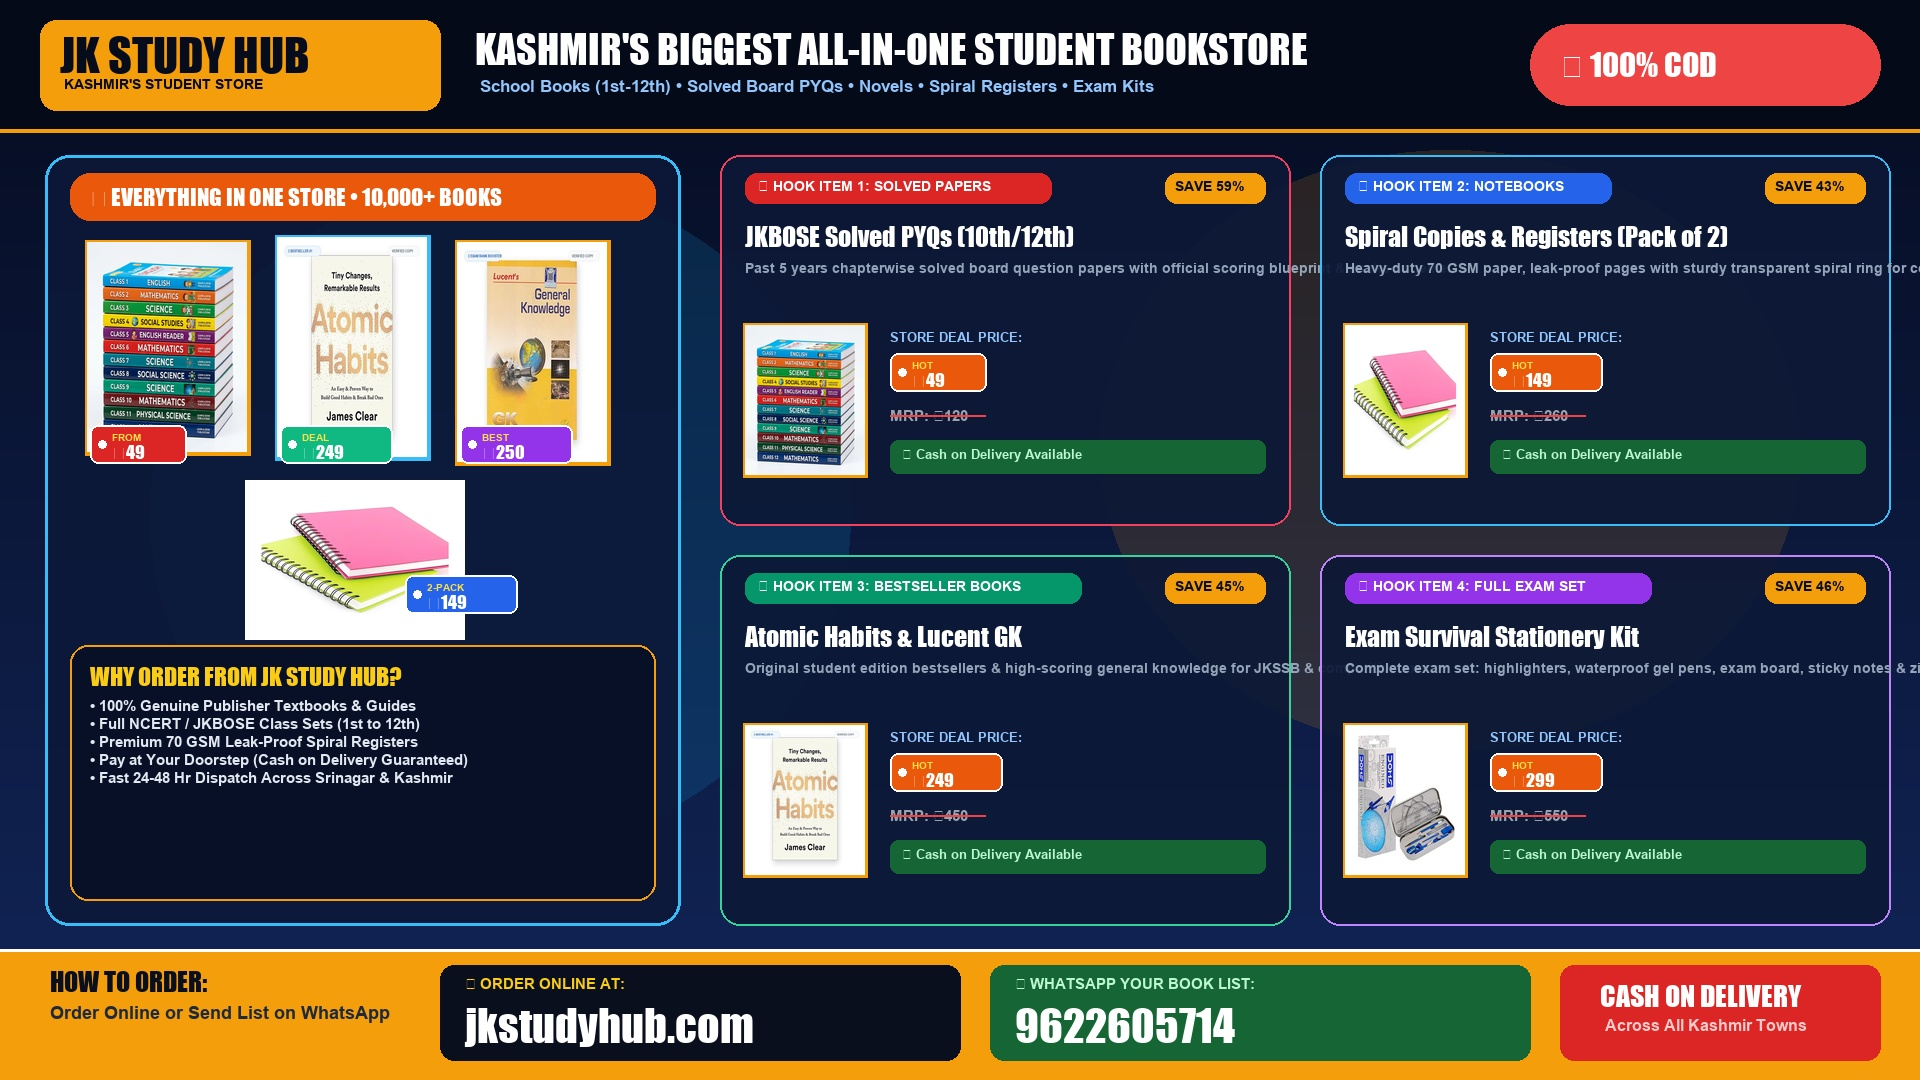
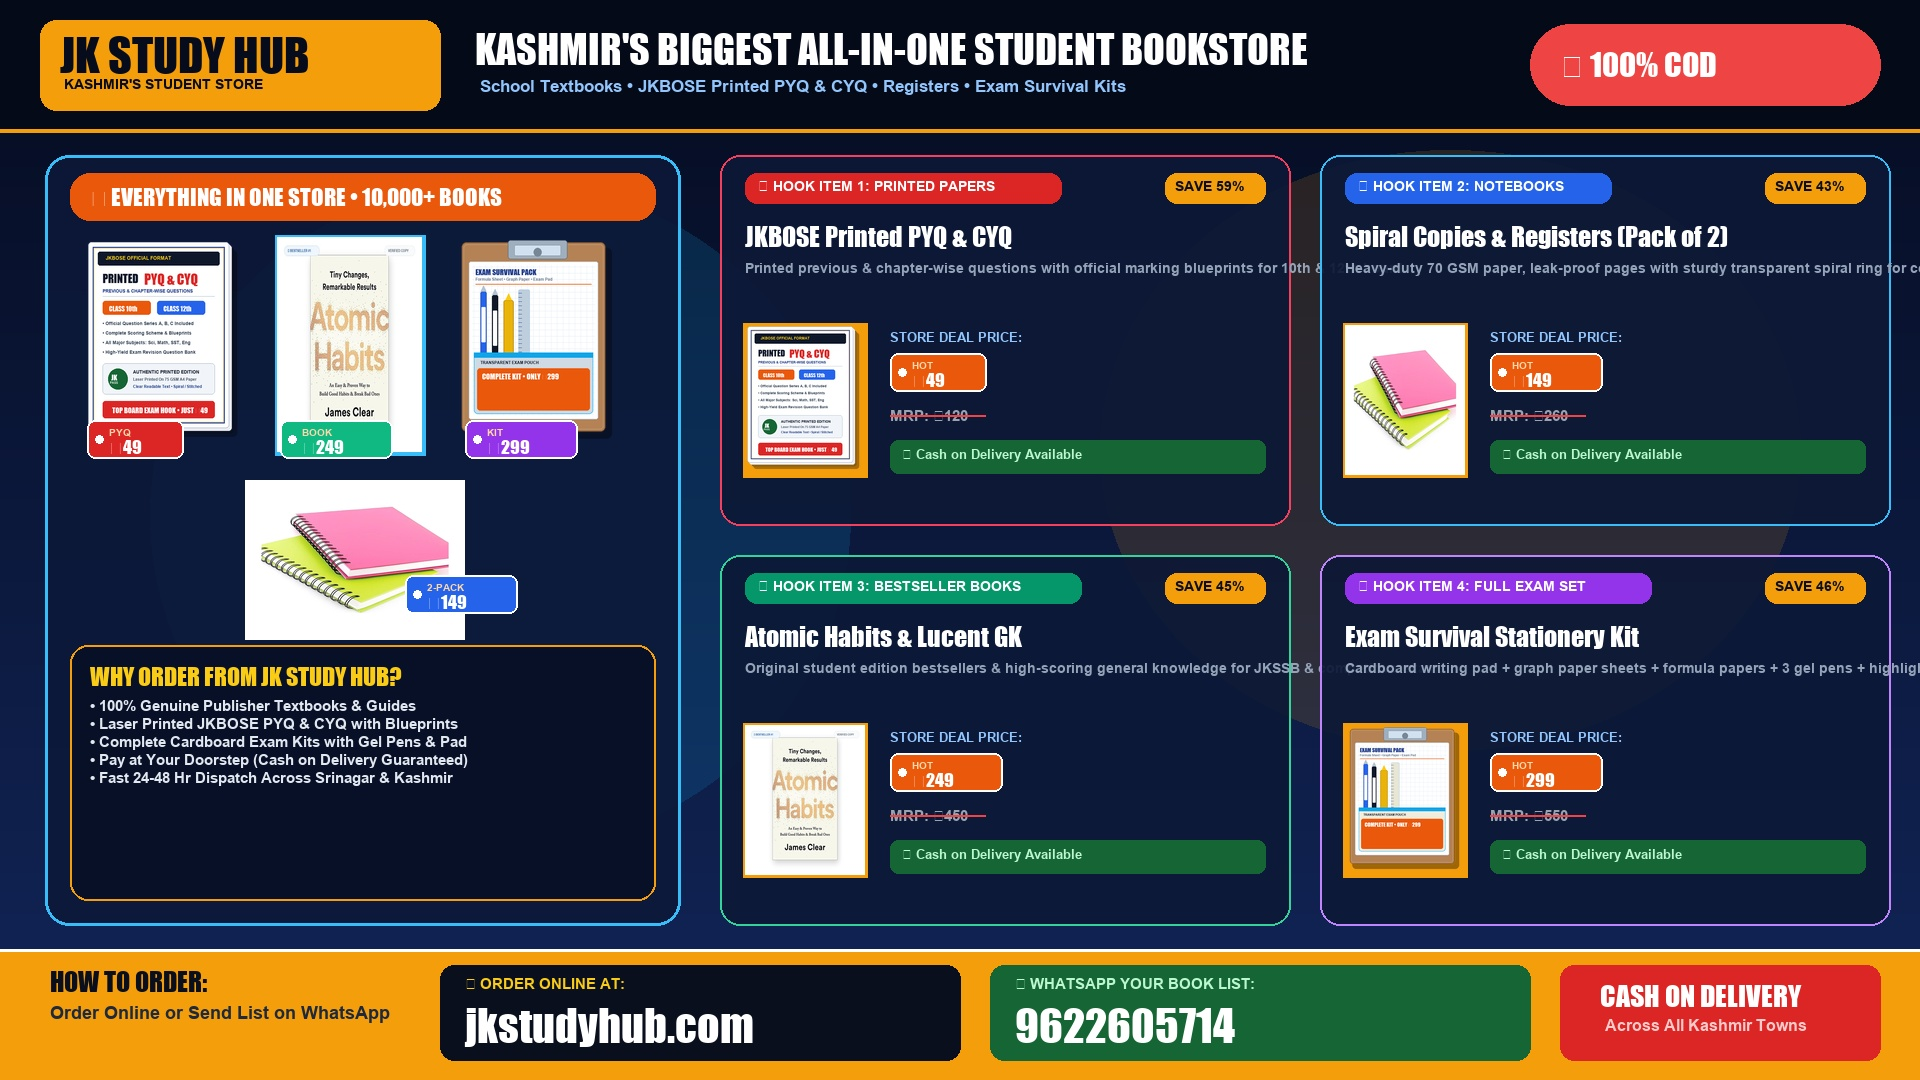
feat(branding): update ads with proper JKBOSE Printed PYQ & CYQ and Exam Survival Kit with cardboard pad & papers

diff --git a/poster.html b/poster.html
@@ -279,10 +279,10 @@
       <div class="spec-box">
         <h4><i class="fa-solid fa-bolt"></i> Actual Store Offers Displayed</h4>
         <p>
+          • <strong>₹49</strong>: JKBOSE Printed PYQ &amp; CYQ (Series A, B, C + Scoring Blueprint).<br>
+          • <strong>₹149</strong>: Premium Spiral Copies &amp; Registers (Set of 2, 70 GSM).<br>
           • <strong>₹249</strong>: Atomic Habits &amp; Lucent GK Bestsellers.<br>
-          • <strong>₹149</strong>: Premium Spiral Copies &amp; Registers (Set of 2).<br>
-          • <strong>₹49</strong>: Printed JKBOSE Solved PYQs &amp; Blueprints.<br>
-          • <strong>₹299</strong>: Exam Survival Complete Stationery Kit.<br>
+          • <strong>₹299</strong>: Exam Survival Kit (Hardboard Exam Pad, Graph Sheets, Gel Pens &amp; Pouch).<br>
           • <strong>Cash on Delivery</strong> across all Kashmir delivery zones.
         </p>
       </div>
